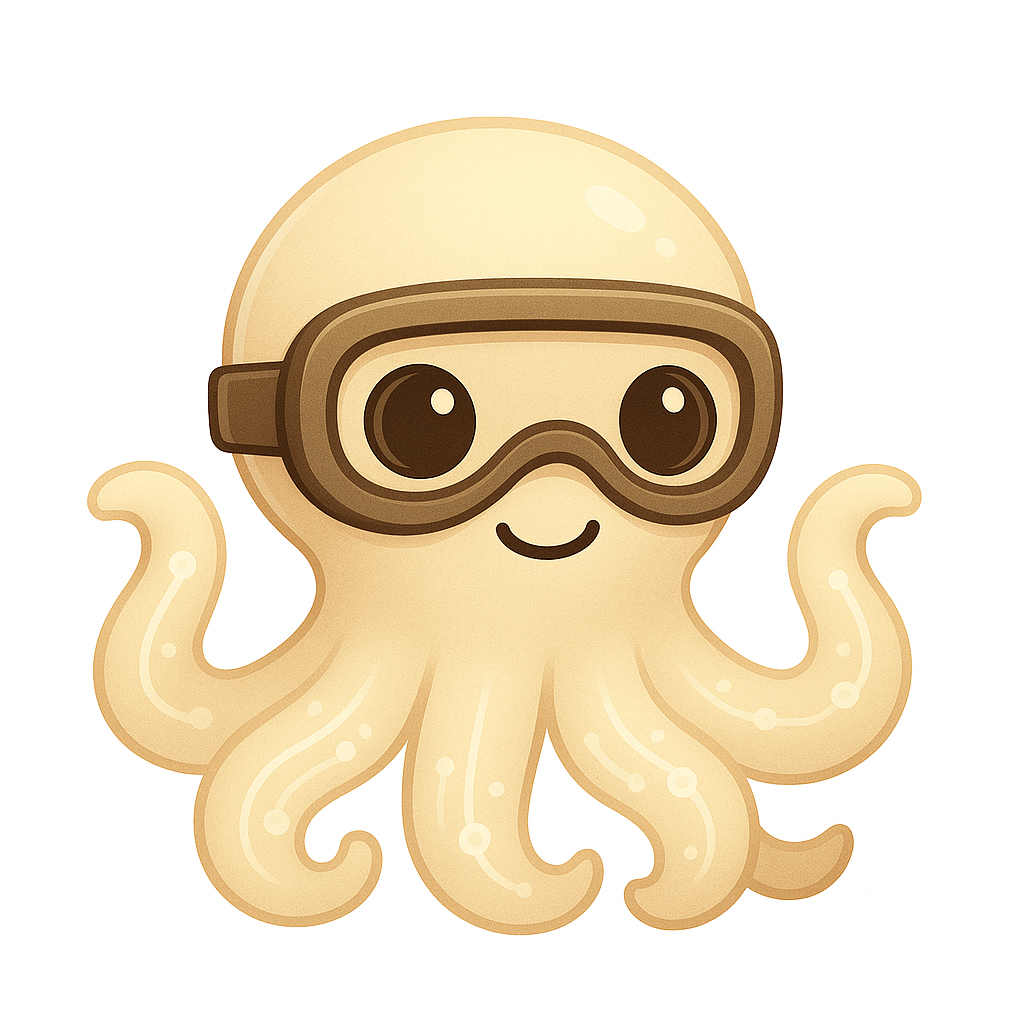
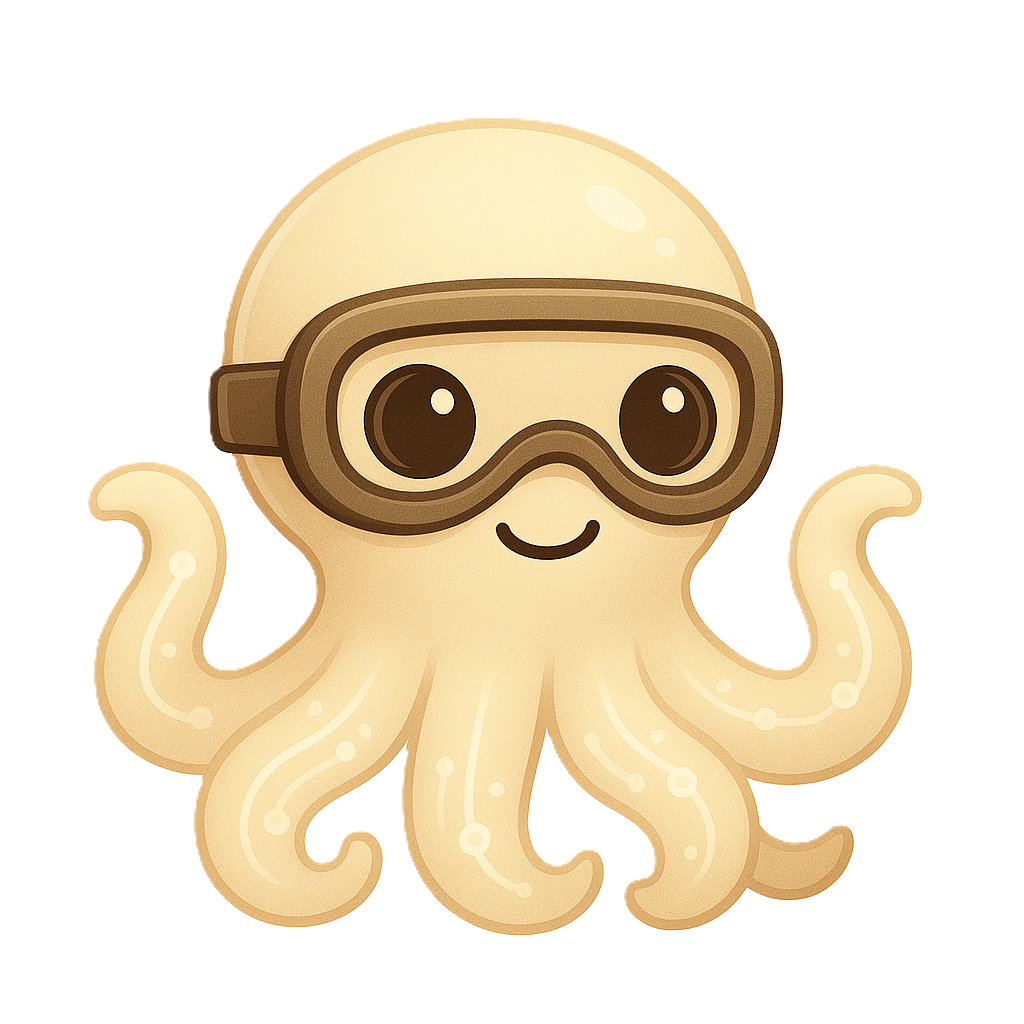
Added colors to Aegi

diff --git a/app/IntroScreen.tsx b/app/IntroScreen.tsx
@@ -1,23 +1,60 @@
-import React from 'react';
-import { View, Text, TouchableOpacity, Image } from 'react-native';
+import React, { useState, useEffect } from 'react';
+import { View, Text, TouchableOpacity, Image, StyleSheet } from 'react-native';
 import introScreenStyle from './styles/introScreenStyle';
 import { useRouter } from 'expo-router';
 
-// Asigură-te că pui imaginea Aegi.jpg în folderul assets/images și ajustezi calea de import dacă este diferită
-const aegisImage = require('../assets/images/Aegi.png');
+// Defineste optiunile pentru mascota (nume culoare si calea imaginii)
+const mascotOptions = [
+  { name: 'Blue', image: require('../assets/images/Aegi.png'), color: '#00b0ff' },
+  { name: 'Pink', image: require('../assets/images/Aegi_Pink.png'), color: '#ff4081' },
+  { name: 'Light Blue', image: require('../assets/images/Aegi_BabyBlue.png'), color: '#81d4fa' },
+  { name: 'Purple', image: require('../assets/images/Aegi_Purple.png'), color: '#7e57c2' },
+  { name: 'Green', image: require('../assets/images/Aegi_Green.png'), color: '#66bb6a' },
+  { name: 'Red', image: require('../assets/images/Aegi_Red.png'), color: '#ef5350' },
+  { name: 'Cream', image: require('../assets/images/Aegi_Crem.png'), color: '#fff176' },
+];
 
 export default function IntroScreen() {
   const router = useRouter();
+  // Seteaza mascota initiala (default e cea albastra)
+  const [currentMascot, setCurrentMascot] = useState(mascotOptions[0]);
+
+  // Preincarca toate imaginile mascotei la montarea componentei
+  useEffect(() => {
+    mascotOptions.forEach(opt => {
+      Image.prefetch(opt.image.uri);
+    });
+  }, []);
+
+  // Functie pentru a schimba mascota (fara salvare in stocare)
+  const selectMascot = (mascotOption: typeof mascotOptions[0]) => {
+    setCurrentMascot(mascotOption);
+  };
+
   return (
     <View style={introScreenStyle.container}>
       <Text style={introScreenStyle.title}>Bine ai Venit!</Text>
       <Text style={introScreenStyle.subtitle}>Autentifică-te pentru a continua învățarea.</Text>
-      <Image source={aegisImage} style={introScreenStyle.octopusImage} resizeMode="contain" />
+
+      {/* Imaginea mascotei - se schimba dinamic */}
+      <Image source={currentMascot.image} style={introScreenStyle.octopusImage} resizeMode="contain" />
+
+      {/* Paleta de culori */} 
+      <View style={introScreenStyle.colorPalette}>
+        {mascotOptions.map((opt) => (
+          <TouchableOpacity
+            key={opt.name}
+            style={[introScreenStyle.colorSwatch, { backgroundColor: opt.color }]} 
+            onPress={() => selectMascot(opt)}
+          />
+        ))}
+      </View>
+
       <TouchableOpacity style={introScreenStyle.button} onPress={() => router.replace('/SignUpScreen')}>
         <Text style={introScreenStyle.buttonText}>Sign Up</Text>
       </TouchableOpacity>
       <TouchableOpacity style={introScreenStyle.button} onPress={() => router.replace('/LoginScreen')}>
-      <Text style={introScreenStyle.buttonText}>Log In</Text>
+        <Text style={introScreenStyle.buttonText}>Log In</Text>
       </TouchableOpacity>
       <TouchableOpacity style={introScreenStyle.skipButton} onPress={() => router.replace('/(tabs)')}>
         <Text style={introScreenStyle.skipText}>Skip for now</Text>

diff --git a/app/styles/introScreenStyle.ts b/app/styles/introScreenStyle.ts
@@ -9,6 +9,24 @@ const introScreenStyle = StyleSheet.create({
     height: 200,
     marginBottom: 40,
   },
+  colorPalette: {
+    flexDirection: 'row',
+    justifyContent: 'center',
+    marginBottom: 24,
+  },
+  colorSwatch: {
+    width: 30,
+    height: 30,
+    borderRadius: 15,
+    marginHorizontal: 6,
+    borderWidth: 2,
+    borderColor: 'white',
+    shadowColor: '#000',
+    shadowOffset: { width: 0, height: 2 },
+    shadowOpacity: 0.1,
+    shadowRadius: 2,
+    elevation: 2,
+  },
   button: { backgroundColor: '#8f6be8', paddingVertical: 16, paddingHorizontal: 48, borderRadius: 16, marginTop: 12, shadowColor: '#8f6be8', shadowOffset: { width: 0, height: 4 }, shadowOpacity: 0.2, shadowRadius: 8, elevation: 4 },
   buttonText: { color: 'white', fontSize: 20, fontWeight: 'bold' },
   skipButton: { marginTop: 18, paddingVertical: 10, paddingHorizontal: 32, borderRadius: 12, backgroundColor: 'transparent' },
